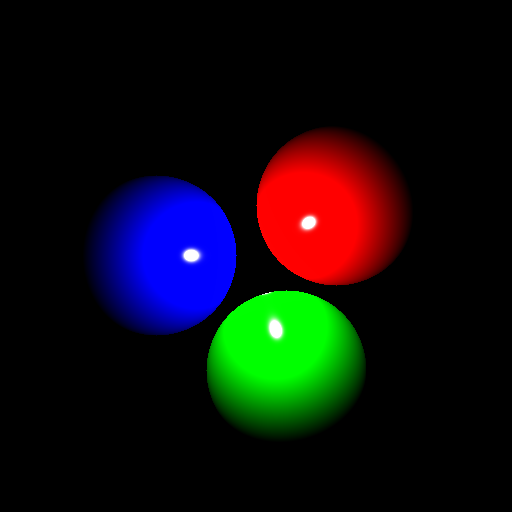
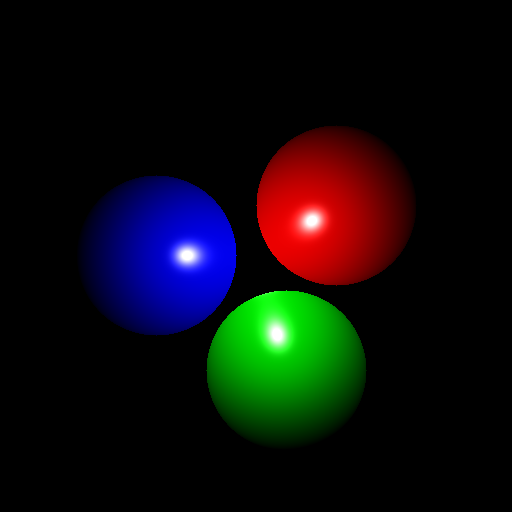
Found bug in dotVR. Fixed.

Changed region(s): [[0.1875, 0.2812, 0.8125, 0.8125], [0.1875, 0.5938, 0.2188, 0.625], [0.1875, 0.375, 0.2188, 0.4062]]

diff --git a/src/Raytracer.cpp b/src/Raytracer.cpp
@@ -106,16 +106,18 @@ core::Color Raytracer::trace(core::Ray& ray, int recursiveStep)
         double c = 0.01;
 
         core::Vector V = ray.getDirection();    // observation vector
-        core::Vector L = collision - light->getPosition(); // light incidence vector
         V.normalize();
+        core::Vector L = collision - light->getPosition(); // light incidence vector
         L.normalize();
 
         double dotNL = normal.dotProduct(L);
 
-        core::Vector R = L - (normal * (2.0 * dotNL));    //reflected vector
+        core::Vector R = (normal * dotNL * 2.0)  - L;   //reflected vector
         R.normalize();
 
         double dotVR = V.dotProduct(R) ; // angle betwen observation vector and reflected vector
+
+        if (dotVR > 0) dotVR = 0;
 
         core::Vector difference = collision - light->getPosition();
 
@@ -128,7 +130,7 @@ core::Color Raytracer::trace(core::Ray& ray, int recursiveStep)
         double lightning_factor = 1.0 / (a + b*di + c*di*di);
         local = local + closestObject->getMaterial().ambient + light->getColor() * lightning_factor
         + closestObject->getMaterial().diffuse * light->getColor()  * dotNL * 0.03
-        + closestObject->getMaterial().specular * light->getColor() * pow(dotVR, 180);
+        + closestObject->getMaterial().specular * light->getColor() * pow(dotVR, 40) * 0.5;
         ;
     }
 

diff --git a/src/shape/Sphere.cpp b/src/shape/Sphere.cpp
@@ -12,7 +12,6 @@ namespace shape
 void Sphere::setRadius(double radius)
 {
     radius_ = radius;
-    logger_.inf() << "Radius set to " << radius;
 }
 
 double Sphere::getRadius()
